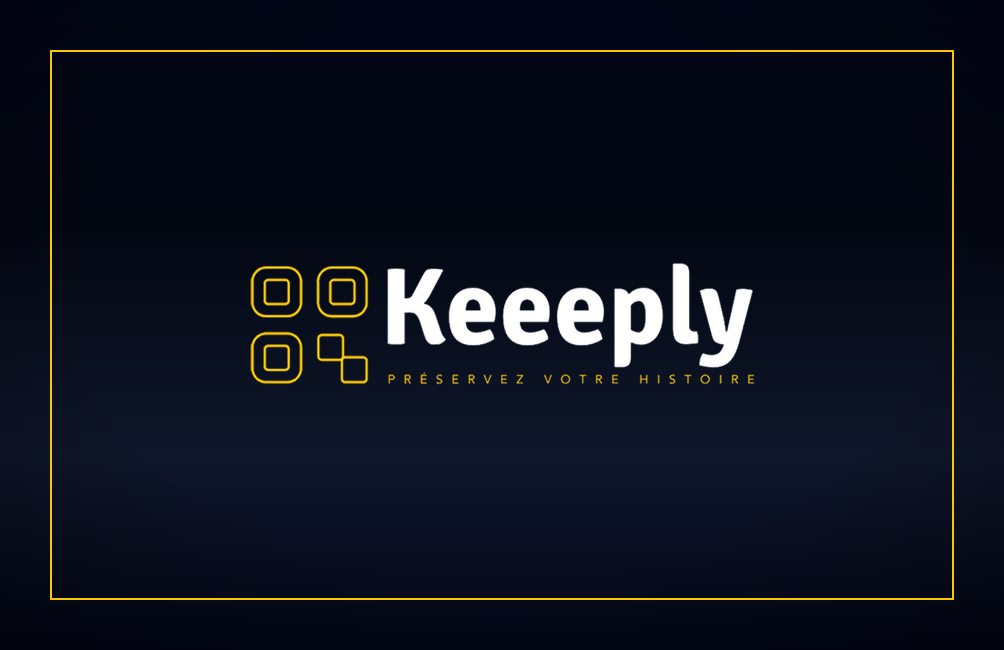
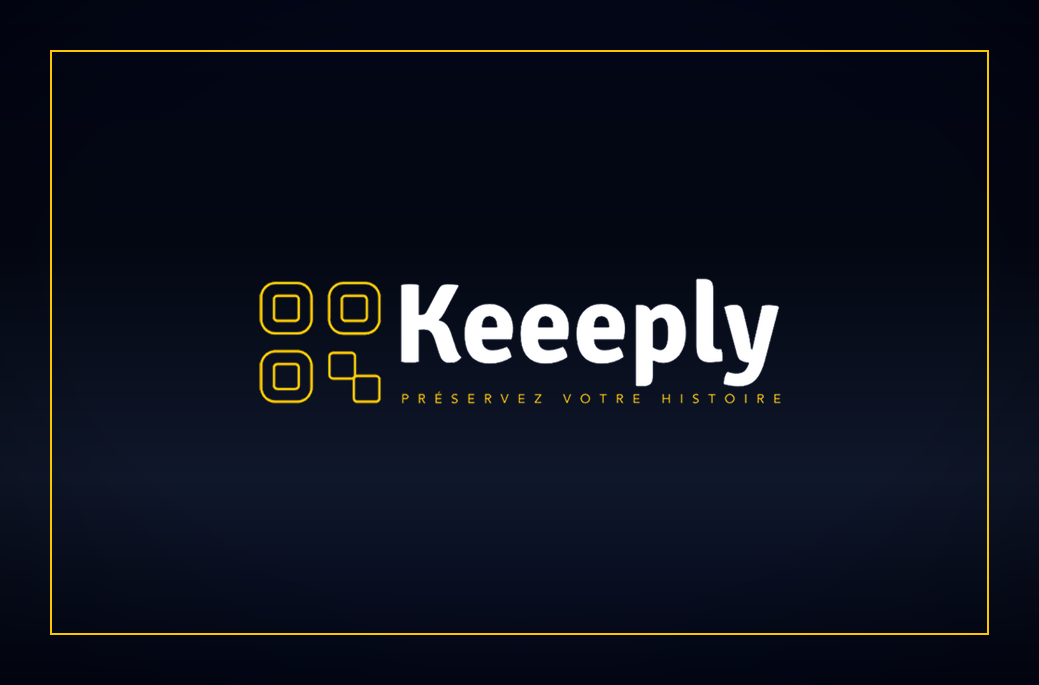
[FEATURE-ALPHA] generate-business-card

diff --git a/frontend/index.html b/frontend/index.html
@@ -78,43 +78,43 @@
 
     <link
       rel="apple-touch-startup-image"
-      href="/splash/iphone-750x1334-v57.png"
+      href="/splash/iphone-750x1334-v58.png"
       media="(device-width: 375px) and (device-height: 667px) and (-webkit-device-pixel-ratio: 2) and (orientation: portrait)"
     />
 
     <link
       rel="apple-touch-startup-image"
-      href="/splash/iphone-828x1792-v57.png"
+      href="/splash/iphone-828x1792-v58.png"
       media="(device-width: 414px) and (device-height: 896px) and (-webkit-device-pixel-ratio: 2) and (orientation: portrait)"
     />
 
     <link
       rel="apple-touch-startup-image"
-      href="/splash/iphone-1170x2532-v57.png"
+      href="/splash/iphone-1170x2532-v58.png"
       media="(device-width: 390px) and (device-height: 844px) and (-webkit-device-pixel-ratio: 3) and (orientation: portrait)"
     />
 
     <link
       rel="apple-touch-startup-image"
-      href="/splash/iphone-1179x2556-v57.png"
+      href="/splash/iphone-1179x2556-v58.png"
       media="(device-width: 393px) and (device-height: 852px) and (-webkit-device-pixel-ratio: 3) and (orientation: portrait)"
     />
 
     <link
       rel="apple-touch-startup-image"
-      href="/splash/iphone-1290x2796-v57.png"
+      href="/splash/iphone-1290x2796-v58.png"
       media="(device-width: 430px) and (device-height: 932px) and (-webkit-device-pixel-ratio: 3) and (orientation: portrait)"
     />
 
     <link
       rel="apple-touch-startup-image"
-      href="/splash/ipad-1668x2388-v57.png"
+      href="/splash/ipad-1668x2388-v58.png"
       media="(device-width: 834px) and (device-height: 1194px) and (-webkit-device-pixel-ratio: 2) and (orientation: portrait)"
     />
 
     <link
       rel="apple-touch-startup-image"
-      href="/splash/ipad-2048x2732-v57.png"
+      href="/splash/ipad-2048x2732-v58.png"
       media="(device-width: 1024px) and (device-height: 1366px) and (-webkit-device-pixel-ratio: 2) and (orientation: portrait)"
     />
 

diff --git a/frontend/src/scripts/generate-business-card.js b/frontend/src/scripts/generate-business-card.js
@@ -42,8 +42,8 @@ if (!fs.existsSync(outputDir)) {
 /* --------------------------------------------------
  * Dimensions carte de visite (85 × 55 mm @ 300 DPI)
  * -------------------------------------------------- */
-const width = 1004;
-const height = 650;
+const width = 1039;
+const height = 685;
 
 /* --------------------------------------------------
  * Style visuel
